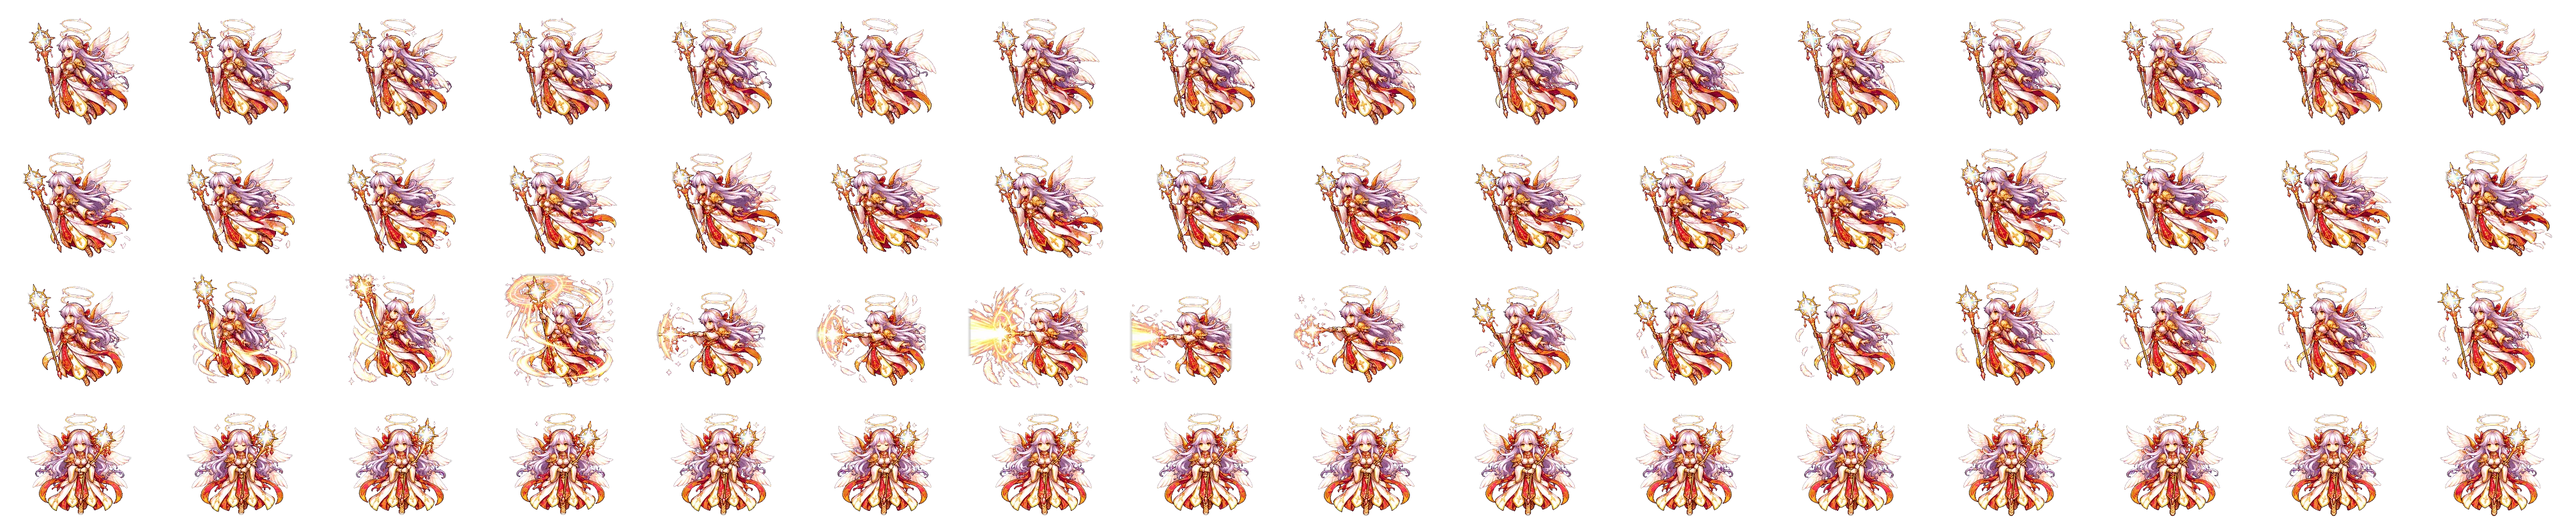
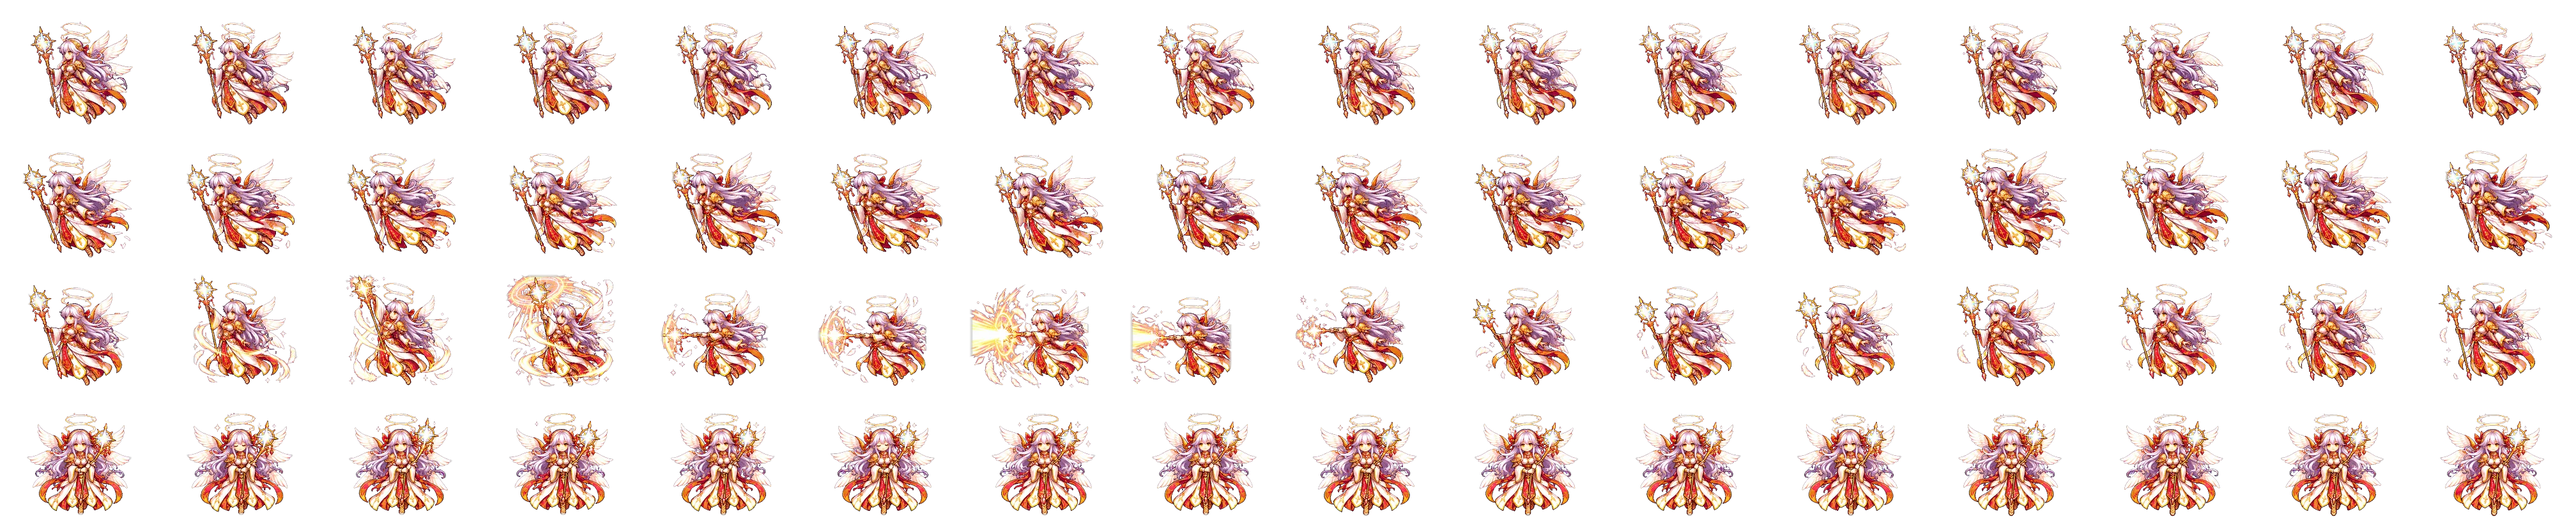
r16 (not live): Aurum Hydra walk redone; per-sheet scaling, rows kept inside the cell
Claude-Session: https://claude.ai/code/session_01Bp1sPxqqDbGY3tv9tHr9QV

Changed region(s): [[0.0, 0.0306, 1.0, 0.2451], [0.0, 0.5208, 1.0, 0.7353]]

diff --git a/tools/r16sheet.py b/tools/r16sheet.py
@@ -54,10 +54,14 @@ def build(id,th):
         for a,b in mp.items():rows[i][a]=rows[i][b]
     def scale(fr):
         bb=[bbox(c) for _,c in fr];return min(th/np.median([b[3]-b[2] for b in bb]),236/np.median([b[1]-b[0] for b in bb]))
-    side=scale(rows[1]);fsc=scale(rows[3])
+    # each sheet gets its own scale so the body ends up the same height whatever size GPT drew it at:
+    # idle / walk / front by their own median size, the attack by its last 4 frames (back in the ready stance)
+    def scale4(fr):
+        bb=[bbox(c) for _,c in fr[12:]];return min(th/np.median([b[3]-b[2] for b in bb]),236/np.median([b[1]-b[0] for b in bb]))
+    SC=[scale(rows[0]),scale(rows[1]),scale4(rows[2]),scale(rows[3])];side=SC[1];fsc=SC[3]
     out=Image.new('RGBA',(CW*16,CH*4),(0,0,0,0));clip=0
     for R,fr in enumerate(rows):
-        s=fsc if R==3 else side
+        s=SC[R]
         # vertical: one offset per GPT row band (its median feet on the floor line), since GPT rows are not evenly placed.
         # horizontal: frame 1 centred on its torso; every later frame slid (within +-40px) to overlap the frame before it best,
         # on the whole body for idle / walk / front and on the feet only for the attack (so a lunge still reaches forward).
@@ -81,6 +85,10 @@ def build(id,th):
         if R!=2:   # keep the loop centred: remove the average drift
             m=round(np.mean([o+torso(c)*s for (o2,(_,o,_)),(g,c) in zip(enumerate(ims),fr) for o2 in [0]])-CW/2)
             ims=[(im,o-m,y) for im,o,y in ims] if abs(m)>2 else ims
+        # a long body (tail one side, heads the other) can hang out of the cell when centred on the torso: slide the row back in
+        L=min(o+bbox(c)[0]*s for (_,o,_),(g,c) in zip(ims,fr));Rr=max(o+(bbox(c)[1]+1)*s for (_,o,_),(g,c) in zip(ims,fr))
+        if R!=2 and (L<2 or Rr>CW-2):
+            sh=round(CW/2-(L+Rr)/2) if Rr-L<CW-4 else round(2-L);ims=[(im,o+sh,y) for im,o,y in ims]
         for k,(im,ox,oy) in enumerate(ims):
             clip=max(clip,-ox,ox+im.width-CW,-oy);t=Image.new('RGBA',(CW,CH),(0,0,0,0));t.paste(im,(ox,oy),im);out.paste(t,(k*CW,R*CH))
     out.save(P+f'spr/{id}.webp',quality=86,method=6);print(id,'scale %.2f front %.2f clipped %dpx'%(side,fsc,max(0,clip)),os.path.getsize(P+f'spr/{id}.webp')//1024,'KB')
